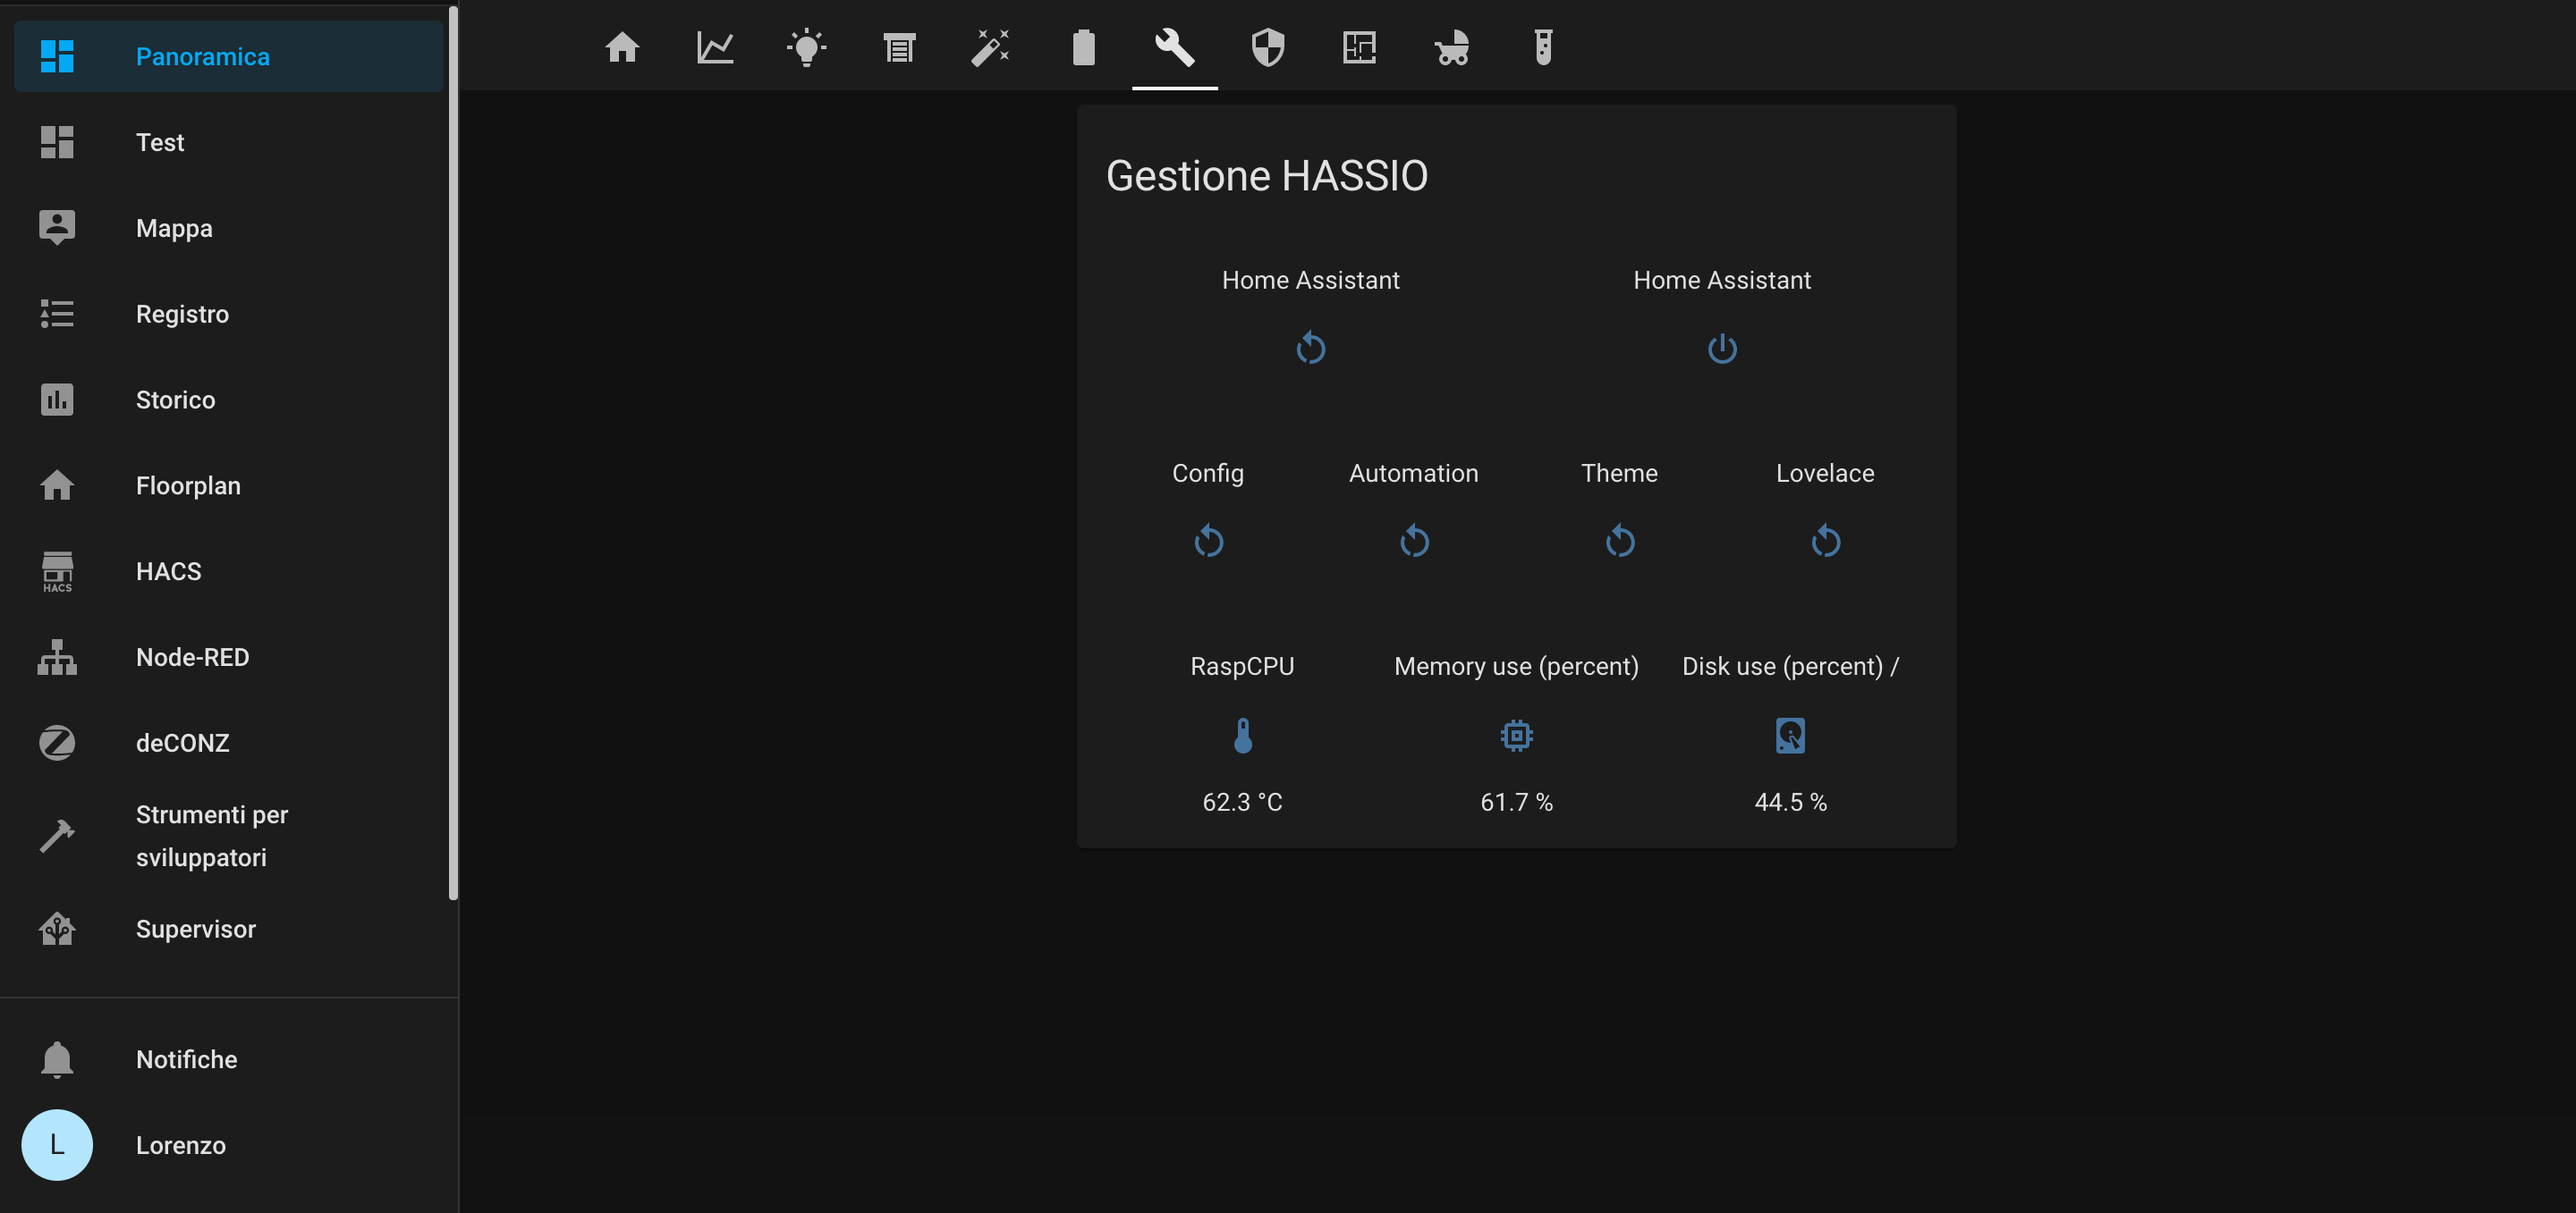
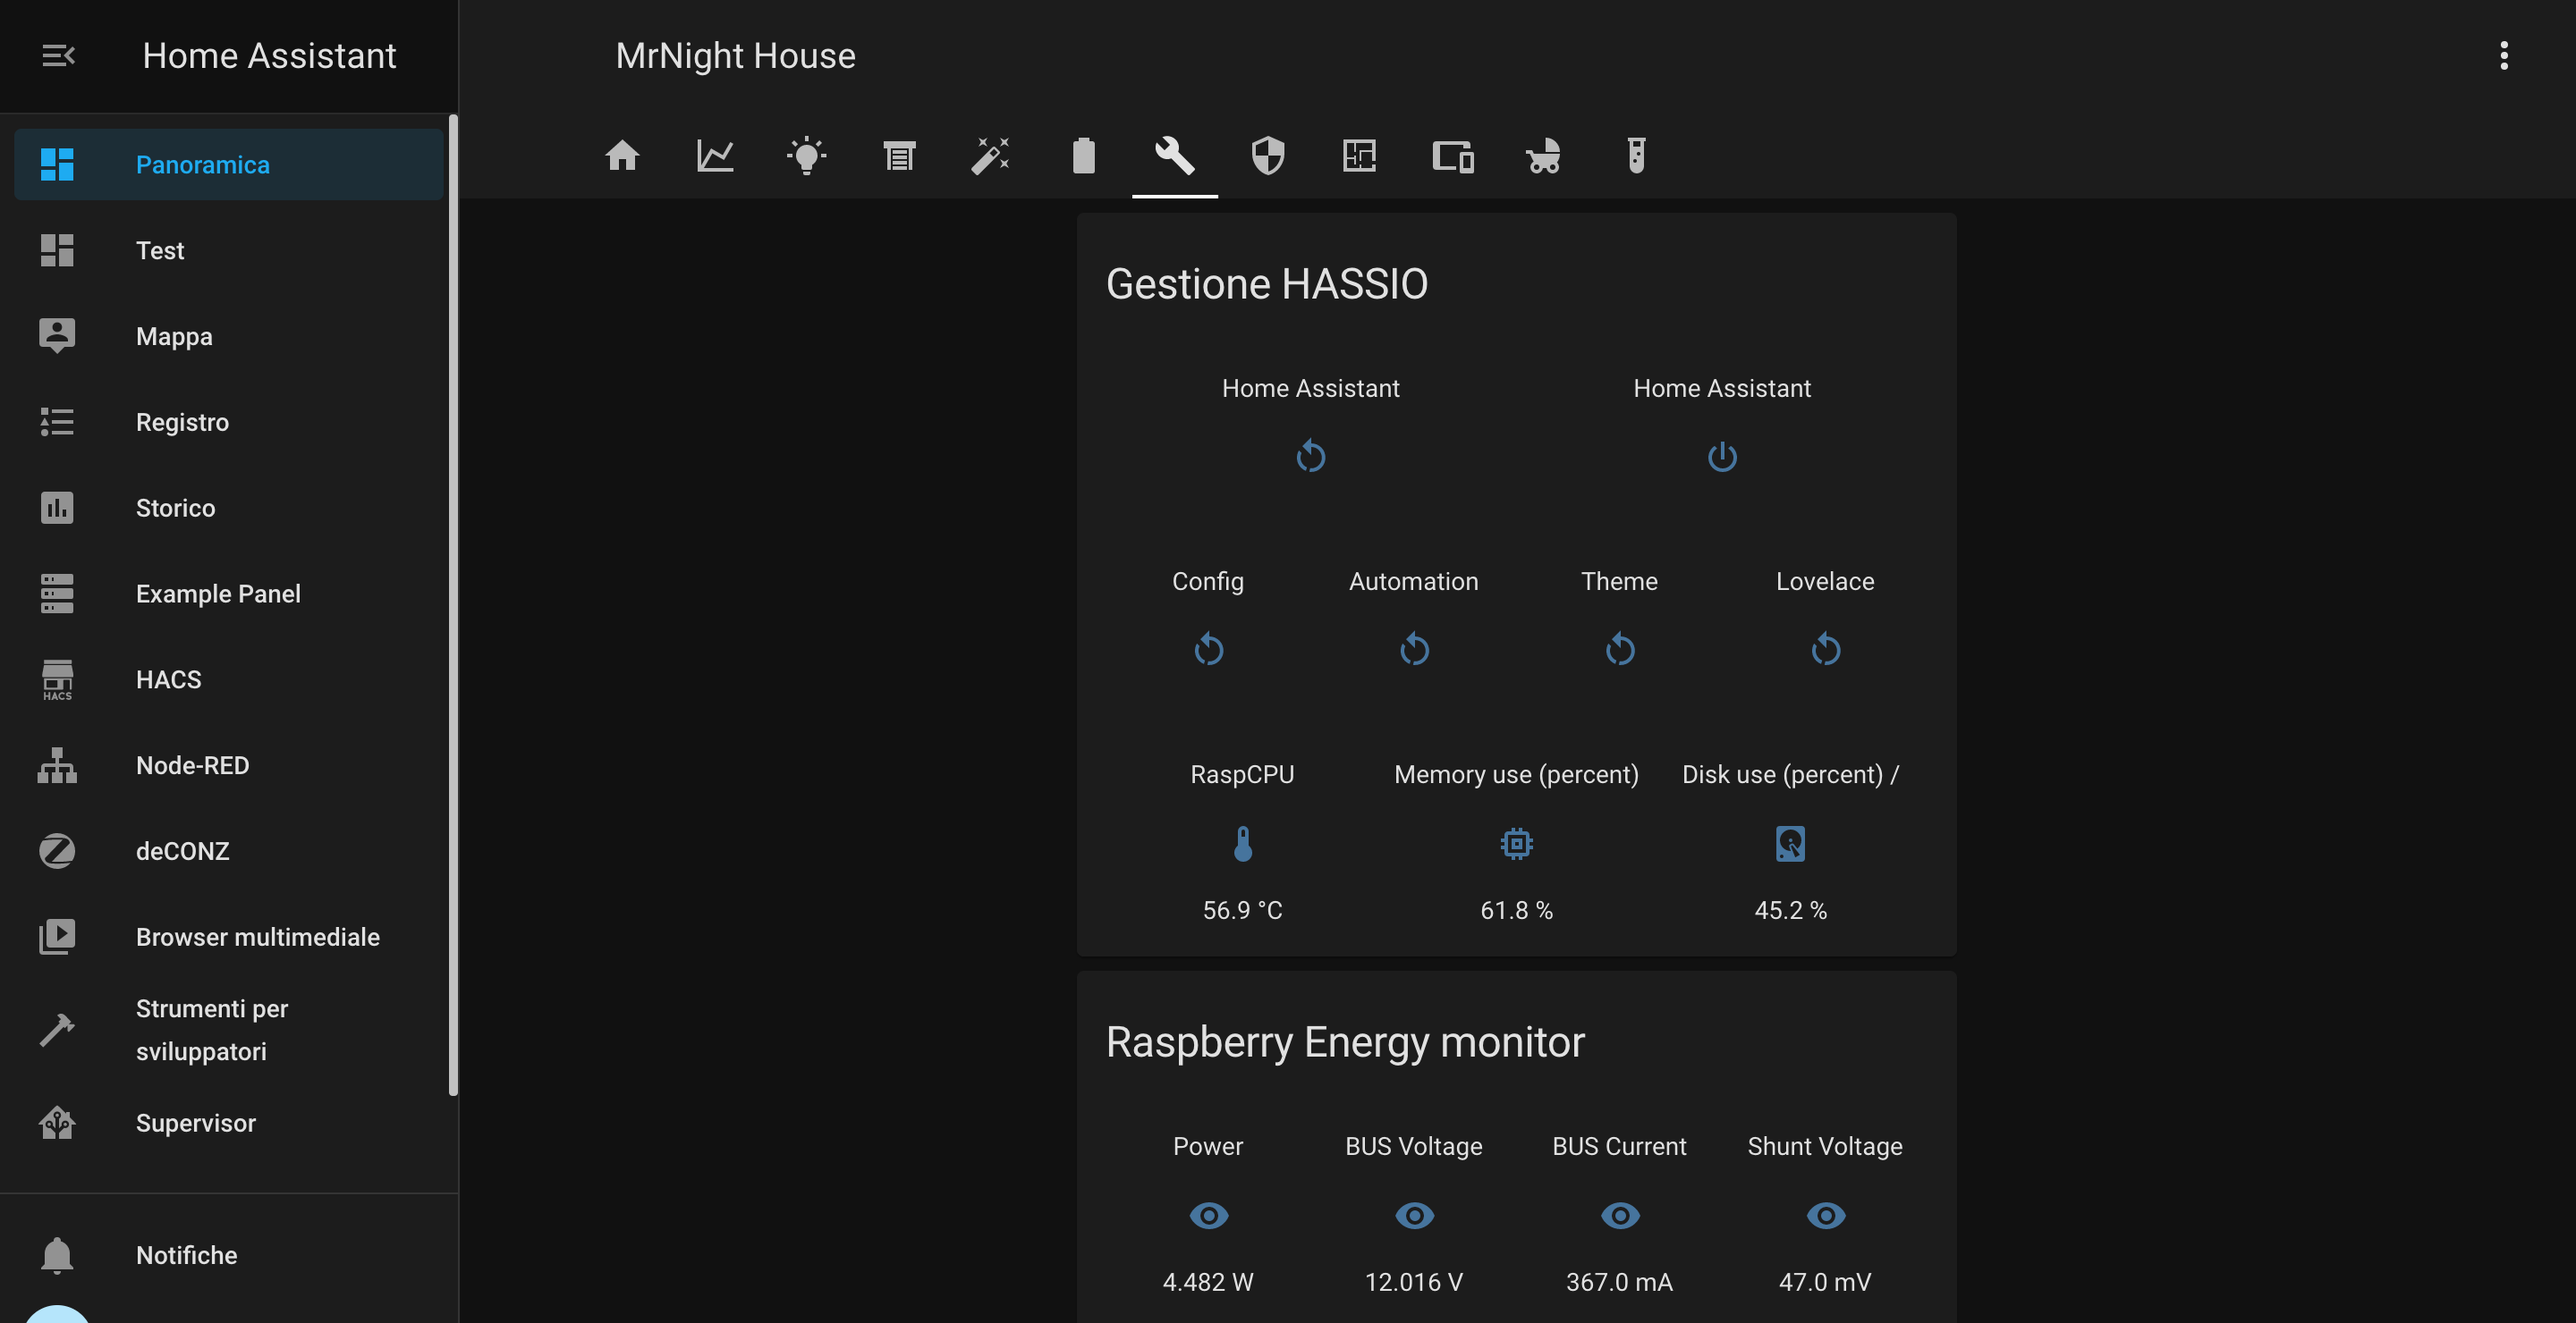
fix

diff --git a/www/lore/custom-floor-panel.js b/www/lore/custom-floor-panel.js
@@ -1,0 +1,181 @@
+import "https://unpkg.com/wired-card@2.1.0/lib/wired-card.js?module";
+import {
+    LitElement,
+    html,
+    css,
+} from "https://unpkg.com/lit-element@2.4.0/lit-element.js?module";
+import '/local/floorplan/lib/floor-panelV2.js'
+import '/local/floorplan/lib/jquery-3.4.1.min.js'
+
+
+class FloorPanelV2 extends LitElement {
+
+    static get is() {
+        return 'floor-panel-v2';
+    }
+
+    static get properties() {
+        return {
+            hass: {
+                type: Object
+            },
+            narrow: {
+                type: Boolean
+            },
+            route: {
+                type: Object
+            },
+            panel: {
+                type: Object
+            },
+        };
+    }
+
+    connectedCallback() {
+        super.connectedCallback();
+
+        if (!this.floorplan) {
+            this.initFloorplan();
+        }
+    }
+
+    stopPropagation(e) {
+        e.stopPropagation();
+    }
+
+    initFloorplan() {
+        this.floorplan = new Floorplan()
+        let options = {
+            root: this.renderRoot,
+            hass: this.hass,
+            openMoreInfo: this.openMoreInfo.bind(this),
+            setIsLoading: this.setIsLoading.bind(this),
+            config: this.panel.config
+        }
+
+        this.floorplan.init(options)
+            .then(() => {
+                this.setIsLoading(false);
+            });
+
+    }
+
+    updated(changedProps) {
+        if (changedProps.has("hass")) {
+            const oldHass = changedProps.get("hass");
+            this.floorplan.hassChanged(this.hass);
+            //if (!oldHass || oldHass.language !== this.hass.language) {
+            //    this.rtl = computeRTL(this.hass);
+            //}
+        }
+    }
+
+    hassChanged(newHass, oldHass) {
+        if (this.floorplan) {
+            this.floorplan.hassChanged(newHass, oldHass);
+        }
+    }
+
+    //loadScript(scriptUrl) {
+    //  return new Promise((resolve, reject) => {
+    //    let script = document.createElement('script');
+    //    script.src = this.cacheBuster(scriptUrl);
+    //    script.onload = () => {
+    //      return resolve();
+    //    };
+    //    script.onerror = (err) => {
+    //      reject(new URIError(`${err.target.src}`));
+    //    };
+    //
+    //    this.root.appendChild(script);
+    //  });
+    //}
+
+    openMoreInfo(entityId) {
+        this.fire('hass-more-info', {
+            entityId: entityId
+        });
+    }
+
+    setIsLoading(isLoading) {
+        this.isLoading = isLoading;
+    }
+
+    cacheBuster(url) {
+        return `${url}${(url.indexOf('?') >= 0) ? '&' : '?'}_=${new Date().getTime()}`;
+    }
+
+    logError(message) {
+        console.error(message);
+
+        let log = this.root.log;
+        $(log).find('ul').prepend(`<li class="error">${message}</li>`)
+        $(log).css('display', 'block');
+    }
+
+    fire(type, detail, options) {
+        options = options || {};
+        detail = (detail === null || detail === undefined) ? {} : detail;
+        const event = new Event(type, {
+            bubbles: options.bubbles === undefined ? true : options.bubbles,
+            cancelable: Boolean(options.cancelable),
+            composed: options.composed === undefined ? true : options.composed
+        });
+        event.detail = detail;
+        const node = options.node || this;
+        node.dispatchEvent(event);
+        return event;
+    }
+
+    render() {
+        return html `
+        <ha-app-layout>
+        <app-header slot="header" fixed>
+          <app-toolbar>
+            <ha-menu-button
+              .hass=${this.hass}
+              .narrow=${this.narrow}
+            ></ha-menu-button>
+            <div main-title>Floor Panel</div>
+          </app-toolbar>
+        </app-header>
+ 
+        <div id="floorplan"></div>
+
+      </ha-app-layout>
+      
+    `;
+    }
+
+    static get styles() {
+        return 
+            haStyle,
+            css `
+
+        .content {
+          padding: 0 16px 16px;
+        }
+ 
+        .progress-wrapper {
+          height: calc(100vh - 136px);
+        }
+ 
+        :host([narrow]) .progress-wrapper {
+          height: calc(100vh - 198px);
+        }
+ 
+        ha-circular-progress {
+          position: absolute;
+          left: 50%;
+          top: 50%;
+          transform: translate(-50%, -50%);
+        }
+
+        #floorplan {
+            width: 100%;
+            height: 100%;
+          }
+      `;
+    }
+}
+customElements.define(FloorPanelV2.is, FloorPanelV2);

diff --git a/www/floorplan/lib/floor-panelV2.js b/www/floorplan/lib/floor-panelV2.js
@@ -22,7 +22,8 @@
       //this.setIsLoading(true);
     }
 
-    hassChanged(newHass, oldHass) {
+    //hassChanged(newHass, oldHass) {
+    hassChanged(newHass) {
       this.hass = newHass;
 
       if (!this.config) return;
@@ -242,8 +243,8 @@
       const pageInfo = { config: pageConfig };
 
       // Merge the page's rules with the main config's rules
-      if (pageInfo.config.rules && this.config.rules) {
-        pageInfo.config.rules = pageInfo.config.rules.concat(this.config.rules);
+      if (pageInfo.config.groups && this.config.groups) {
+        pageInfo.config.groups = pageInfo.config.groups.concat(this.config.rules);
       }
 
       this.pageInfos[pageInfo.config.page_id] = pageInfo;
@@ -317,6 +318,10 @@
           else {
             $(this.root).find('#floorplan').append(svg);
           }
+
+          // Test
+          //$("#floorplan").append(svg);
+
 
           // Enable pan / zoom if enabled in config
           if (this.isOptionEnabled(this.config.pan_zoom)) {
@@ -554,7 +559,7 @@
     /***************************************************************************************************************************/
 
     initFloorplan(svg, config) {
-      if (!config.rules) {
+      if (!config.groups) {
         return Promise.resolve();;
       }
 
@@ -579,14 +584,14 @@
     initRules(config, svg, svgElements) {
       // Apply default options to rules that don't override the options explictly
       if (config.defaults) {
-        for (let rule of config.rules) {
+        for (let rule of config.groups) {
           rule.hover_over = (rule.hover_over === undefined) ? config.defaults.hover_over : rule.hover_over;
           rule.more_info = (rule.more_info === undefined) ? config.defaults.more_info : rule.more_info;
           rule.propagate = (rule.propagate === undefined) ? config.defaults.propagate : rule.propagate;
         }
       }
 
-      for (let rule of config.rules) {
+      for (let rule of config.groups) {
         if (rule.entity || rule.entities) {
           this.initEntityRule(rule, svg, svgElements);
         }
@@ -1354,7 +1359,7 @@
     validateConfig(config) {
       let isValid = true;
 
-      if (!config.pages && !config.rules) {
+      if (!config.pages && !config.groups) {
         this.setIsLoading(false);
         //this.logError('CONFIG', `Cannot find 'pages' nor 'rules' in floorplan configuration`);
         isValid = false;
@@ -1367,18 +1372,18 @@
           }
         }
         else {
-          if (!config.rules) {
+          if (!config.groups) {
             this.logError('CONFIG', `Cannot find 'rules' in floorplan configuration`);
             isValid = false;
           }
 
-          let invalidRules = config.rules.filter(x => x.entities && x.elements);
+          let invalidRules = config.groups.filter(x => x.entities && x.elements);
           if (invalidRules.length) {
             this.logError('CONFIG', `A rule cannot contain both 'entities' and 'elements' in floorplan configuration`);
             isValid = false;
           }
 
-          invalidRules = config.rules.filter(x => !(x.entity || x.entities) && !(x.element || x.elements));
+          invalidRules = config.groups.filter(x => !(x.entity || x.entities) && !(x.element || x.elements));
           if (invalidRules.length) {
             this.logError('CONFIG', `A rule must contain either 'entities' or 'elements' in floorplan configuration`);
             isValid = false;
@@ -1699,9 +1704,10 @@
 
       if ((!this.config && (level === 'error')) || isTargetLogLevel) {
         // Always log error messages that occur before the config has been loaded
-        const log = $(this.root).find('#log');
-        $(log).find('ul').prepend(`<li class="${level}">${text}</li>`)
-        $(log).css('display', 'block');
+        //const log = $(this.root).find('#log');
+        //$(log).find('ul').prepend(`<li class="${level}">${text}</li>`)
+        //$(log).css('display', 'block');
+        console.log(text);
       }
     }
 

diff --git a/README.md b/README.md
@@ -13,6 +13,7 @@
 * [HACS](#HACS)
 * [RTL-SDR](#RTL-SDR)
 * [MCP3008](#MCP3008)
+* [INA219](#INA219)
 * [API for host service](#API-for-host-service)
 * [Ripristino](#Ripristino)
 
